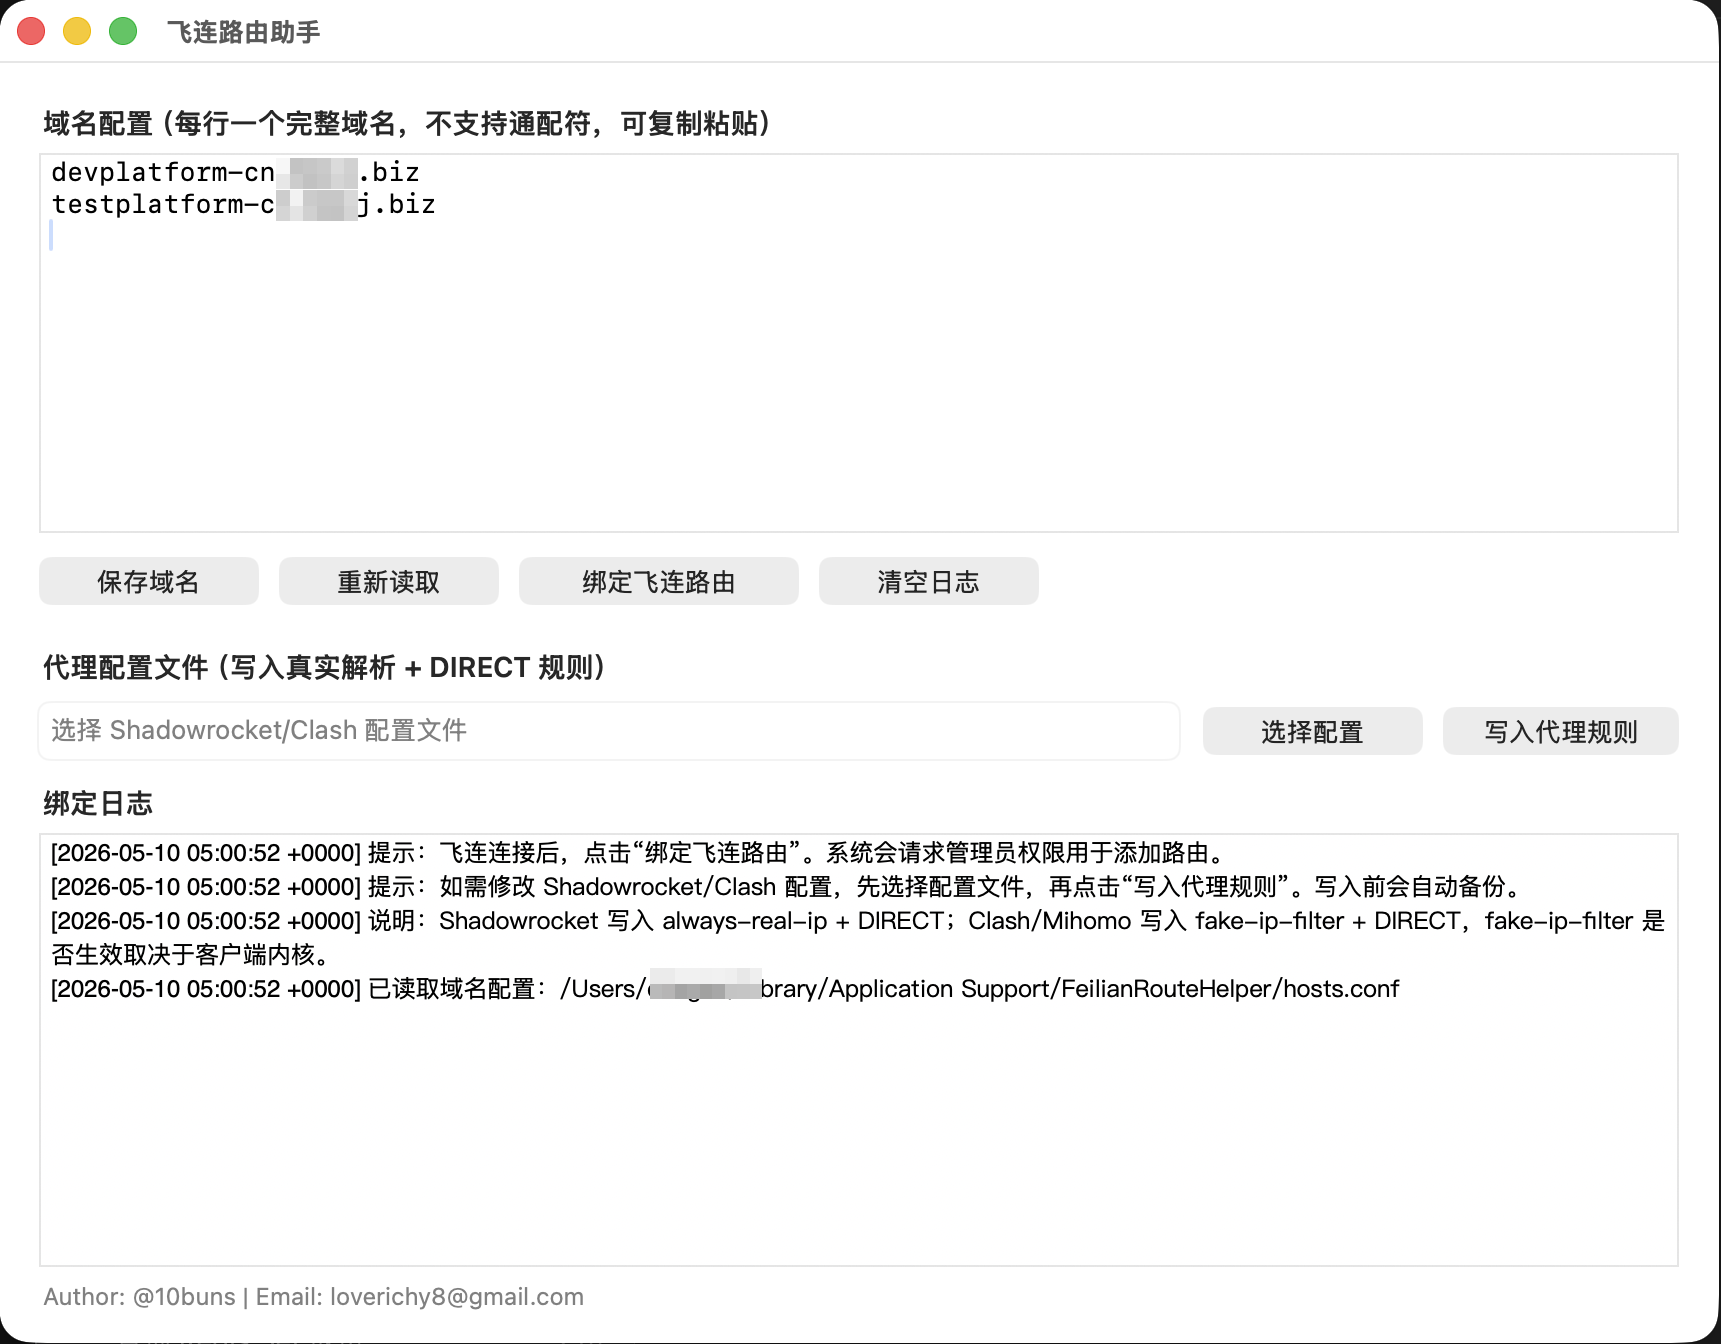
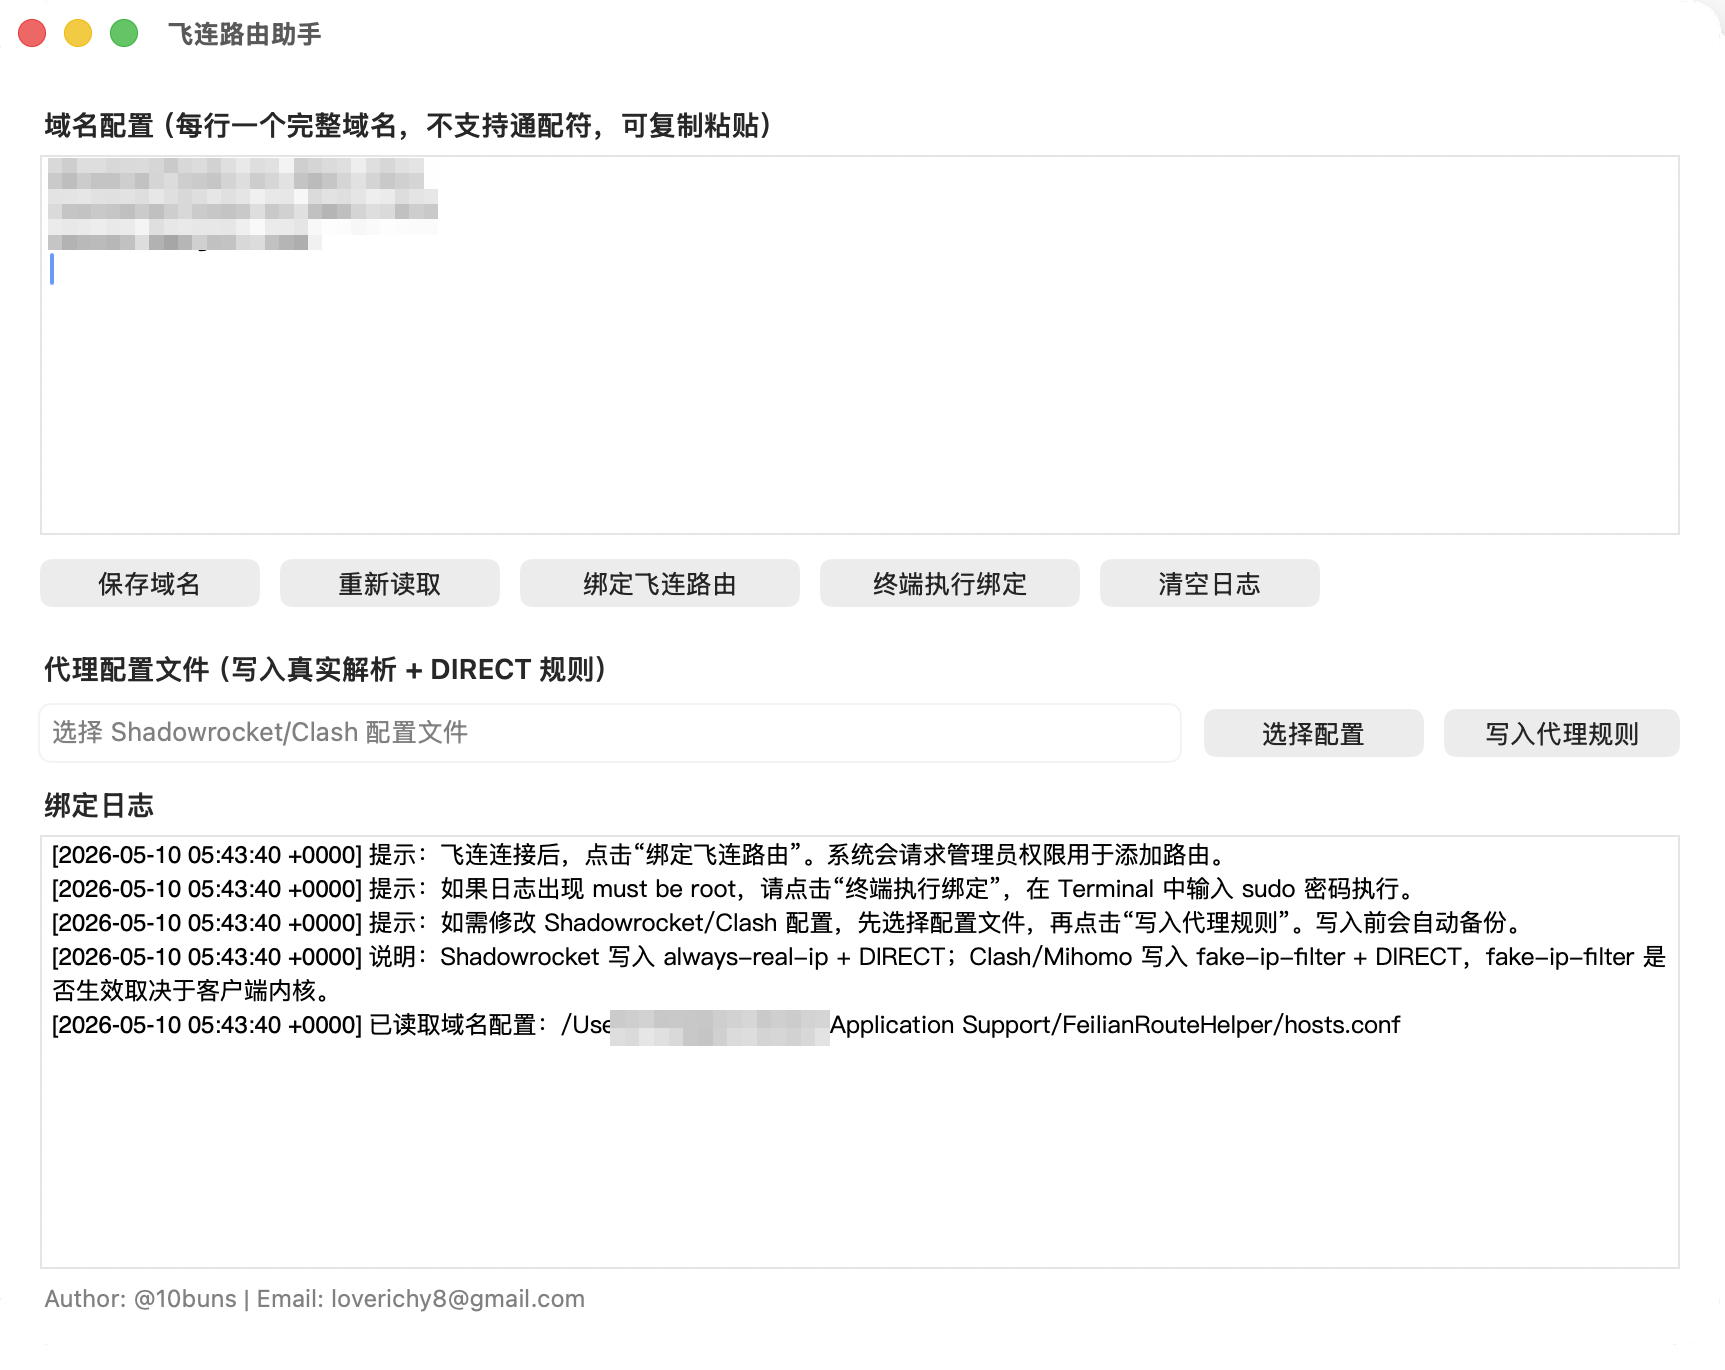
Refresh README screenshot

diff --git a/README.en.md b/README.en.md
@@ -68,6 +68,14 @@ dist/飞连路由助手.app
 7. Click `绑定飞连路由`
 8. Check the execution result in the log area
 
+If the log shows:
+
+```text
+route: must be root to alter routing table
+```
+
+click `终端执行绑定`. The app will open Terminal and run the binding script with `sudo`. Enter the current macOS user password when prompted.
+
 Domain configuration is saved at:
 
 ```text

diff --git a/README.md b/README.md
@@ -1,6 +1,12 @@
 # 飞连路由助手
 
+[中文](README.md) | [English](README.en.md)
+
 一个用于 macOS 的轻量桌面工具，帮助在同时使用飞连 VPN 与 Shadowrocket / Clash / Mihomo 时，将指定公司域名解析到的内网 IP 绑定到飞连 VPN 路由。
+
+## 应用截图
+
+![飞连路由助手应用截图](screenshot/app-screenshot-window.png)
 
 作者：[@10buns](https://github.com/10buns)  
 邮箱：[email redacted]